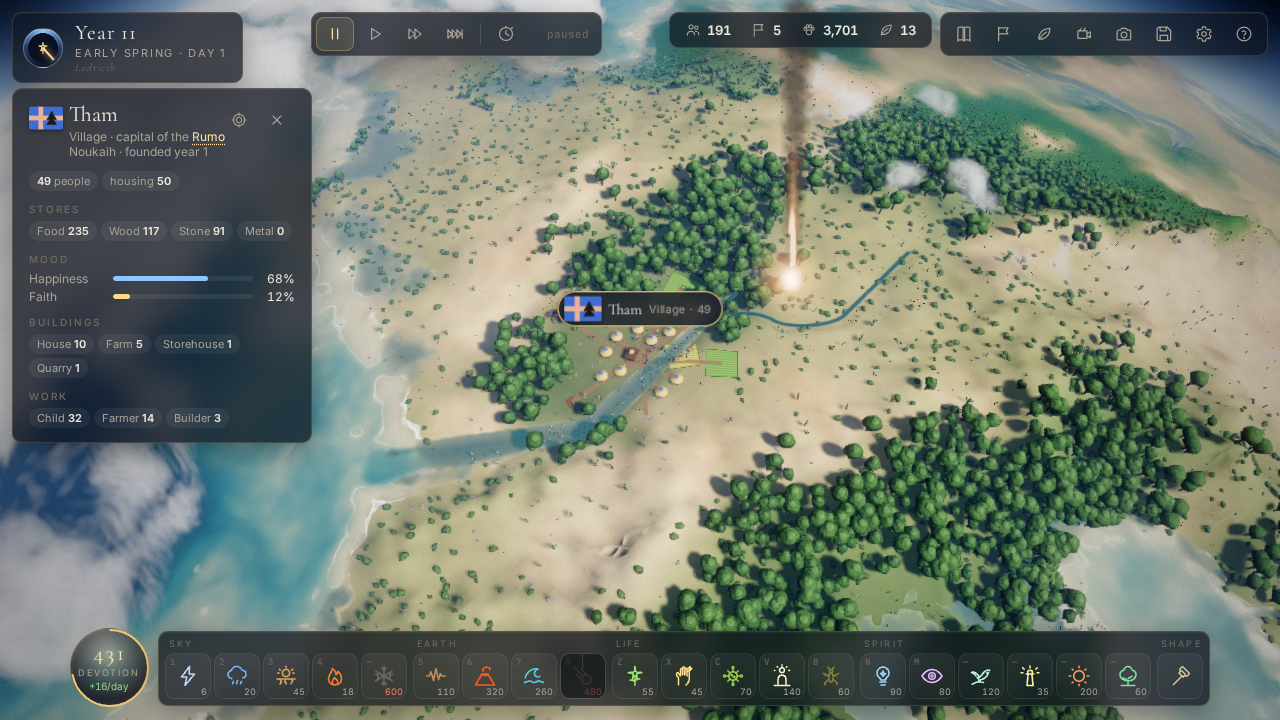
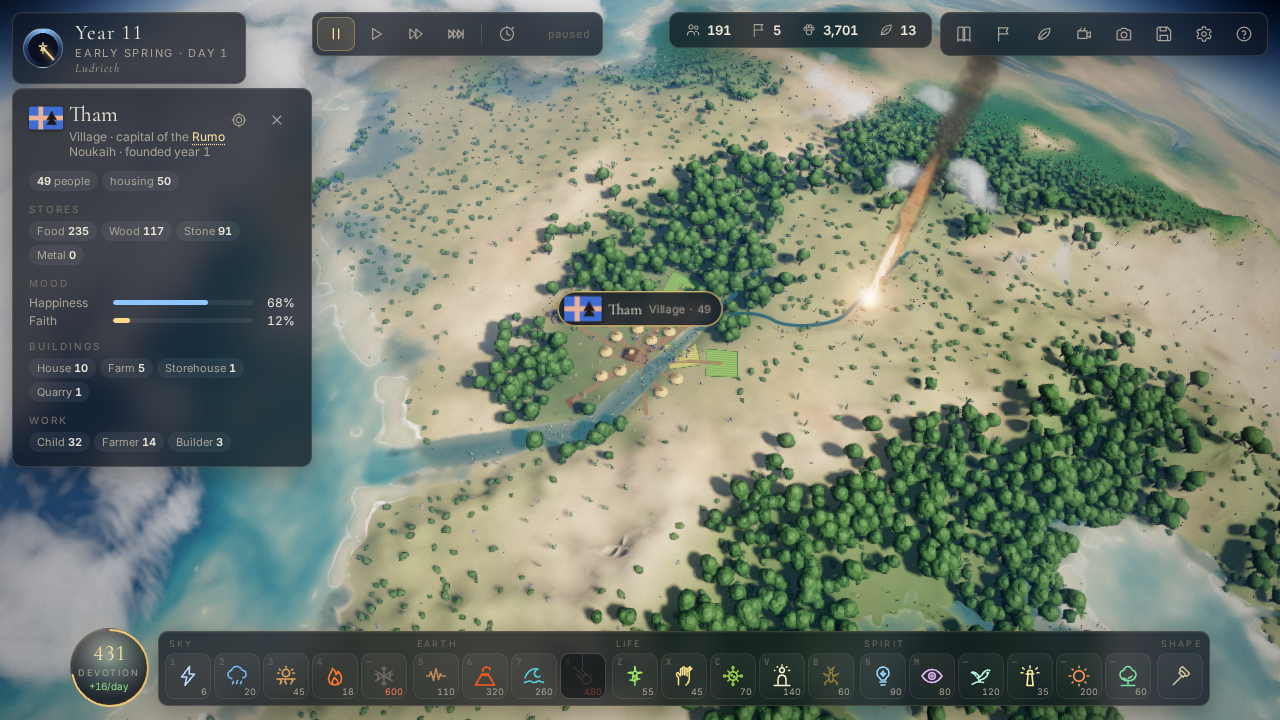
Pass 9 captures (true High, all Pass 8 fixes); QUALITY_LOG Pass 8
Claude-Session: https://claude.ai/code/session_01P1K7jeGpkvrVy88twc6oDA

diff --git a/QUALITY_LOG.md b/QUALITY_LOG.md
@@ -271,6 +271,45 @@ So Passes 4–7 judged partly degraded images, and the renderer benchmark's pres
 not what they claimed. A preset named in the URL now pins the session; all screenshots
 and the benchmark are re-captured.
 
+## Pass 8 — fifth adversarial review (first on true-High captures)
+
+| Category | Pass 4 | Pass 5 | Pass 6 | Pass 7 | Pass 8 |
+|---|---|---|---|---|---|
+| Visual beauty | 5 | 5 | 5 | 5 | 5 |
+| Visual coherence | 4 | 3 | 4 | 4 | 4 |
+| Polish / juice (visible) | 4 | 4 | 3 | 4 | 5 |
+| First-impression wow | 4 | 4 | 5 | 4 | 5 |
+
+The best round so far (the reviewer put the title, terminator and coast at 6–7 and the
+UI at about 7), but +1 in two categories is within the ±1 the reviewers swing between
+rounds on unchanged images, so it is not counted as a meaningful improvement.
+Findings and dispositions:
+
+| Finding | Verdict | Root cause → fix |
+|---|---|---|
+| "Year 11" reads "Year II", "910" as "9IO", "0 new" as "O new" | real | the display face's default old-style figures → lining, tabular figures everywhere (the bundled subset carries `lnum`/`tnum`) |
+| Tutorial "Click" in bare monospace | real | the keycap style was not applied inside the tutorial → it is |
+| World name under the date at ~1.5:1 contrast | real | faint text colour → dim text colour, a size up |
+| Scenario cards out of line by 4 px | harness | the pointer stayed over a card after the click (hover lifts it) → the capture parks the pointer |
+| Ecology chart: four orange/salmon and two blue series | real | 13 series on 8 hues, matched only through the legend → each line labelled at its end, labels nudged apart |
+| Ecology cut mid-content with no fade | partly | the fade was 30 px and easy to miss → 48 px |
+| Meteor trail a vertical column from the top of the frame | real | the approach ran straight down the screen → it slants, and the wake widens and wanders as it ages |
+| Meteor impact a "glass bubble" | explained | the crater lake the hydrology fills, lit by the fireball's glare |
+| After the impact, the river "drawn over the smoke" | misread → real | the brown disc is the burn scar on the ground (the river rightly lies on it), drawn as even region-cell splats → burn and ash are broken up by noise into char, a singed rim and ash drifts |
+| Volcano: grey translucent disc round the lava; red trees on the snow | real | ash as a flat region-cell tint; autumn crowns computed without the snow → patchy ash; no autumn colour under snow |
+| Night town a hard-edged gold square; green specks on the lit rim | real | the glow sampled straight from the region cells; aurora curtains edge-on at the limb over the ground → the glow is sampled through a domain warp; the aurora fades at the limb for distant cameras over the ground as well as the sky |
+| Title planet: neon-green smear on the lit edge | real | the same edge-on aurora |
+| Ocean covered in single white pixels (fog view) | real | leaping-fish spray emitted for cameras up to 260 u, where it is one pixel → only below 110 u |
+| Cloud bank with a vertical seam beside a mountain | partly | the march's step size and erosion detail came from the segment cut short by terrain → both now come from the uncut segment; what remains is the mountain's sheer flank seen through thin cloud |
+| Huts as identical map pins | real | a cone in the people's colour on every apex → a smoke-hole collar and a wooden finial; the band under the eaves keeps the colour |
+| Cacti inside oak woodland | real | cactus weight ignored the trees → none where trees grow |
+| White poles in the forest | real | paper-white birch bark → pale grey bark |
+| Lake almost white (coast) | real | full-strength sun glint on inland water → halved |
+| Saturated rainbow across the whole sky | real | too strong → a faint veil |
+| River a flat overlay whose width jumps at the village | open | the lower reach is carved below sea level, so the estuary is as wide as its valley; widening channels upstream would change the height field and the calibrated scenarios |
+| Close-range art (cone pines, faceted cliffs, plain meadows) and the near/far palette gap | open | the reviewer's first recommendation in every round: rebuilding the close-range art in the globe's language (tri-planar rock, a unified biome palette, new tree species) is a rebuild, not a fix |
+| Fireball, dust ring and debris; caldera geometry; lit smoke | open | effects are particles and terrain shading only; lit volumetric smoke and crater geometry are future work |
+
 ## Delight pass
 
 Small touches nobody asked for, each verified in a screenshot or in play:
